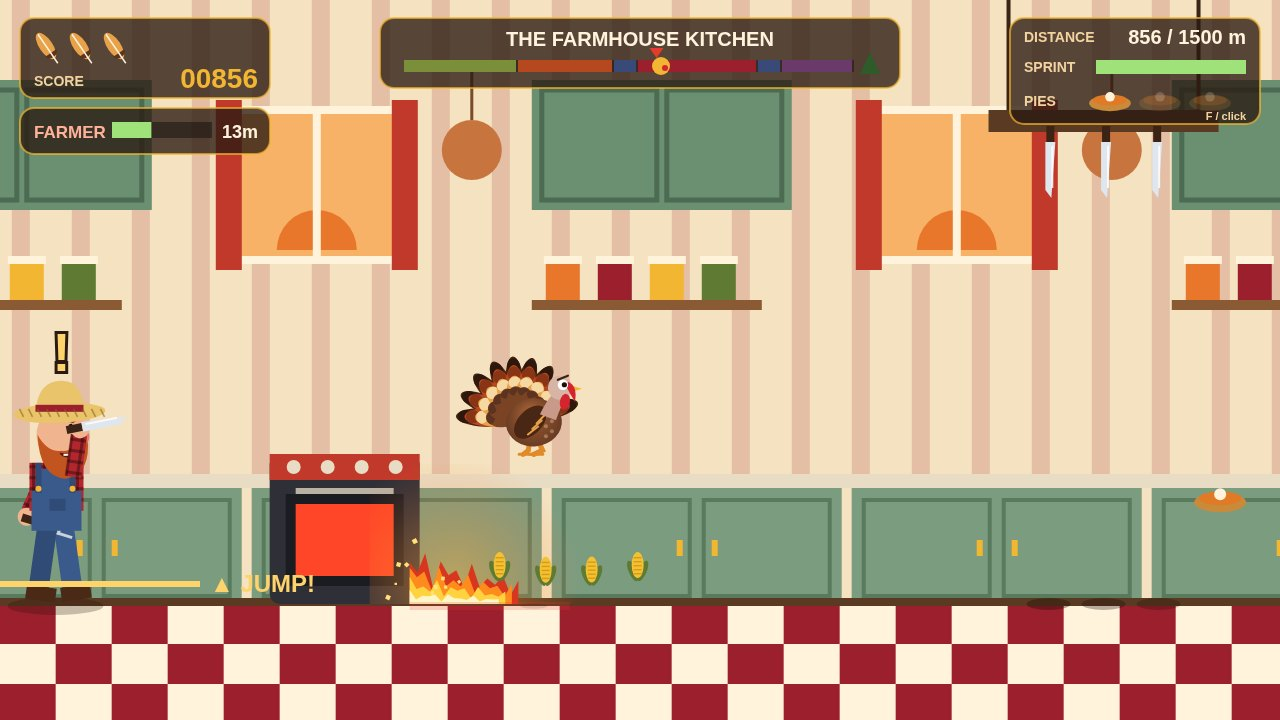
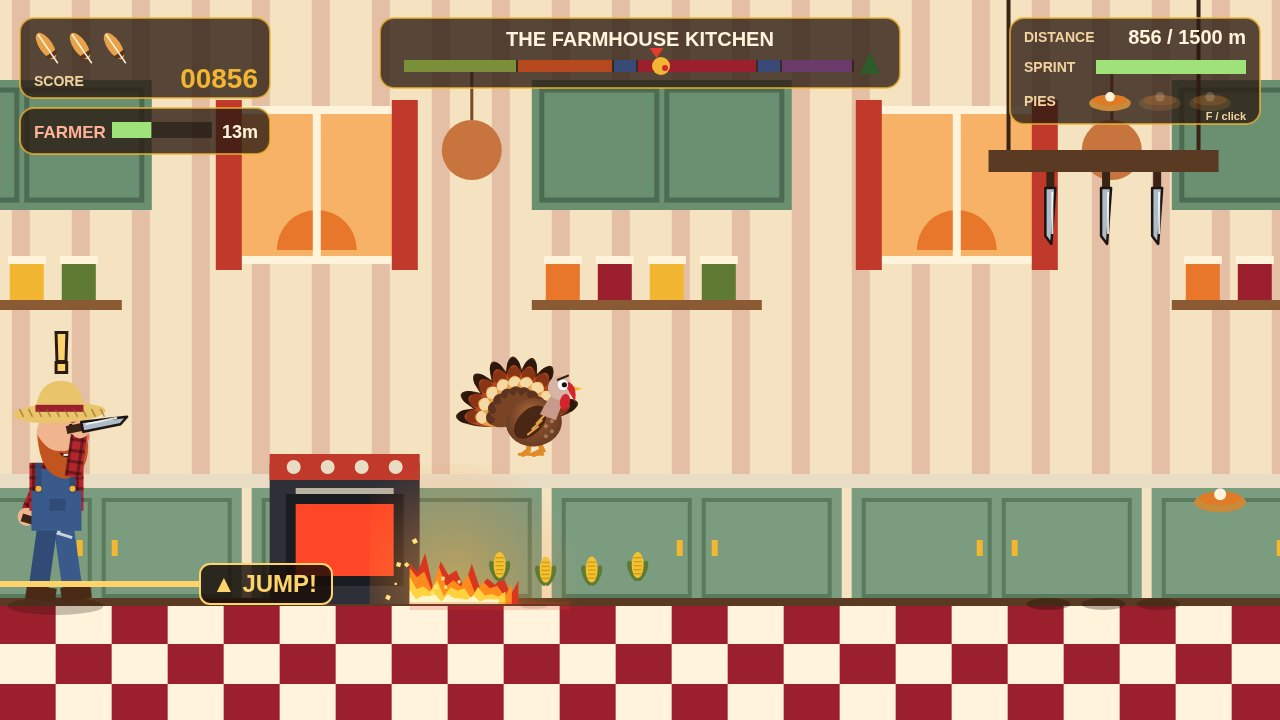
Judge-view fixes: clear knife rack, outlined blades, backed JUMP cue; screenshot tooling out of game/
- knife racks hang lower (bar at y 150), clear of the HUD panels; hanging and falling knives are
  drawn from the same y, so a dropped knife no longer jumps
- knife blades are steel grey with a dark outline, readable on pale wallpaper
- the JUMP/DUCK cue sits on a dark tag
- shots.js and autopilot.js move to tools/ with a shot.html page that draws each scene with the
  game's own rendering code and take-screenshots.mjs to retake them; main.js no longer imports
  them and has no window.__gobble or __shotReady hooks
- screenshots retaken: the tools/ page reproduces the in-game frames pixel for pixel

Changed region(s): [[0.75, 0.1528, 0.9688, 0.3361], [0.1562, 0.7639, 0.2812, 0.8556], [0.0625, 0.5806, 0.0938, 0.6111]]

diff --git a/game/src/main.js b/game/src/main.js
@@ -9,7 +9,6 @@ import { drawRun } from './render.js';
 import { drawTitle, drawPause, drawEnd, hitButton, TITLE_BUTTONS, PAUSE_BUTTONS, END_BUTTONS } from './screens.js';
 import { unlockAudio, playSfx, setMusic, toggleMute, setAudioPaused } from './audio.js';
 import { loadBest, saveBest, recordRun } from './save.js';
-import { readShot, buildShotRun } from './shots.js';
 
 const canvas = document.getElementById('game');
 const ctx = canvas.getContext('2d');
@@ -28,9 +27,7 @@ const game = {
   result: null,
   time: 0,
   seed: (Date.now() % 100000) | 0,
-  frozen: false,
 };
-window.__gobble = game;
 
 // Browsers only let sound start inside a user gesture, so unlock on the very first key or click.
 window.addEventListener('pointerdown', unlockAudio, true);
@@ -43,7 +40,7 @@ function setScreen(screen) {
 
 // Switching tabs or windows mid-run pauses it: Pepper is never caught while you look away.
 function autoPause() {
-  if (game.screen === 'play' && !game.frozen) { setScreen('paused'); announce('Paused.'); }
+  if (game.screen === 'play') { setScreen('paused'); announce('Paused.'); }
 }
 window.addEventListener('blur', autoPause);
 document.addEventListener('visibilitychange', () => { if (document.hidden) autoPause(); });
@@ -149,26 +146,10 @@ let last = performance.now();
 function frame(now) {
   const dt = Math.min(0.05, (now - last) / 1000);
   last = now;
-  if (!game.frozen) update(dt);
+  update(dt);
   input.endFrame();
   draw();
   requestAnimationFrame(frame);
 }
 
-// Screenshot scenes: ?shot=title|farm|barn|kitchen|caught|escaped plays the real game to a moment and holds it.
-const shot = readShot();
-if (shot) {
-  game.frozen = true;
-  game.time = 1.25;
-  if (shot.name !== 'title') {
-    game.run = buildShotRun(shot);
-    game.time = game.run.time;
-    if (game.run.state === 'over') {
-      game.result = runResult(game.run);
-      game.endInfo = recordRun({ score: 0, meters: 0, escapes: 0 }, game.result);
-      game.screen = 'end';
-    } else game.screen = 'play';
-  }
-  window.__shotReady = true;
-}
 requestAnimationFrame(frame);

diff --git a/game/src/art/props.js b/game/src/art/props.js
@@ -3,7 +3,7 @@
 // racks, mud and gravy, corn, pies, lucky feathers, hiding spots, doors and the woods gate.
 
 import { GROUND_Y } from '../config.js';
-import { ovenPhase } from '../hazards.js';
+import { ovenPhase, RACK_Y } from '../hazards.js';
 import { drawKnife } from './farmerArt.js';
 
 const G = GROUND_Y;
@@ -188,10 +188,11 @@ function oven(ctx, x, h, time) {
 }
 
 function knifeRack(ctx, x, h) {
+  // the rack hangs on two chains below the HUD; its knives hang from it point-down
   ctx.fillStyle = '#5a3a22';
-  ctx.fillRect(x, 110, h.w, 22);
+  ctx.fillRect(x, RACK_Y, h.w, 22);
   ctx.strokeStyle = '#3b2416'; ctx.lineWidth = 4;
-  ctx.beginPath(); ctx.moveTo(x + 20, 0); ctx.lineTo(x + 20, 110); ctx.moveTo(x + h.w - 20, 0); ctx.lineTo(x + h.w - 20, 110); ctx.stroke();
+  ctx.beginPath(); ctx.moveTo(x + 20, 0); ctx.lineTo(x + 20, RACK_Y); ctx.moveTo(x + h.w - 20, 0); ctx.lineTo(x + h.w - 20, RACK_Y); ctx.stroke();
   for (const k of h.knives) {
     const kx = x + k.dx;
     if (k.state === 'shake' && k.t > 0) {
@@ -200,7 +201,7 @@ function knifeRack(ctx, x, h) {
       ctx.beginPath(); ctx.ellipse(kx, G, 22, 6, 0, 0, Math.PI * 2); ctx.fill();
     }
     const jiggle = k.state === 'shake' && k.t > 0 ? Math.sin(k.t * 60) * 3 : 0;
-    const y = k.state === 'hang' || k.state === 'shake' ? 140 : k.y - 70;
+    const y = k.y - 70;
     ctx.save();
     ctx.translate(kx + jiggle, k.state === 'stuck' ? G - 44 : y);
     ctx.rotate(Math.PI / 2);

diff --git a/tools/shot-page.js b/tools/shot-page.js
@@ -1,0 +1,32 @@
+// Renders one screenshot scene (tools/shots.js) with the game's own drawing code and holds it,
+// then sets window.__shotReady for tools/take-screenshots.mjs. Not part of the shipped game.
+
+import { VIEW } from '../game/src/config.js';
+import { runResult } from '../game/src/run.js';
+import { drawRun } from '../game/src/render.js';
+import { drawTitle, drawEnd } from '../game/src/screens.js';
+import { recordRun } from '../game/src/save.js';
+import { readShot, buildShotRun } from './shots.js';
+
+const canvas = document.getElementById('game');
+const ctx = canvas.getContext('2d');
+canvas.width = VIEW.w;
+canvas.height = VIEW.h;
+const mouse = { x: 0, y: 0, clicked: false, down: false };
+const shot = readShot() ?? { name: 'title', seed: 1 };
+
+let draw;
+if (shot.name === 'title') {
+  draw = () => drawTitle(ctx, 1.25, mouse, { score: 0, meters: 0, escapes: 0 });
+} else {
+  const run = buildShotRun(shot);
+  if (run.state === 'over') {
+    const result = runResult(run);
+    const endInfo = recordRun({ score: 0, meters: 0, escapes: 0 }, result);
+    draw = () => { drawRun(ctx, run, run.time); drawEnd(ctx, run.time, mouse, result, endInfo); };
+  } else {
+    draw = () => drawRun(ctx, run, run.time);
+  }
+}
+draw();
+window.__shotReady = true;

diff --git a/game/src/hud.js b/game/src/hud.js
@@ -98,11 +98,16 @@ export function drawHud(ctx, run, time) {
   if (run.farmer.mode === 'windup') {
     const y = run.farmer.lane === 'high' ? GROUND_Y - 62 : GROUND_Y - 20;
     const blink = Math.sin(time * 26) > 0;
+    // a dark tag behind the words keeps the cue readable over ovens, crates and wallpaper
+    ctx.fillStyle = 'rgba(26,14,8,0.82)';
+    ctx.beginPath(); ctx.roundRect(200, y - 20, 132, 40, 10); ctx.fill();
+    ctx.strokeStyle = '#ffd36b'; ctx.lineWidth = 2;
+    ctx.stroke();
     if (blink) {
       ctx.fillStyle = '#ffd36b';
       ctx.fillRect(0, y - 3, 200, 6);
-      text(ctx, run.farmer.lane === 'high' ? '▼ DUCK!' : '▲ JUMP!', 210, y + 8, 24, '#ffd36b', 'left', 900);
     }
+    text(ctx, run.farmer.lane === 'high' ? '▼ DUCK!' : '▲ JUMP!', 212, y + 8, 24, blink ? '#ffd36b' : '#fff3dc', 'left', 900);
   }
   if (danger > 0.55) {
     const g = ctx.createRadialGradient(VIEW.w / 2, VIEW.h / 2, VIEW.h * 0.4, VIEW.w / 2, VIEW.h / 2, VIEW.w * 0.7);

diff --git a/game/src/art/farmerArt.js b/game/src/art/farmerArt.js
@@ -14,7 +14,11 @@ function plaid(ctx, x, y, w, h) {
 function drawKnife(ctx, len = 46) {
   ctx.fillStyle = '#3b2416';
   ctx.fillRect(-14, -4, 16, 8);
-  ctx.fillStyle = '#dfe6ee';
+  // steel-grey blade with a dark outline, so it reads against pale wallpaper and dark barns alike
+  ctx.fillStyle = '#aebbc8';
+  ctx.strokeStyle = '#1e1410';
+  ctx.lineWidth = 2.5;
+  ctx.lineJoin = 'round';
   ctx.beginPath();
   ctx.moveTo(2, -5);
   ctx.lineTo(2 + len, -1);
@@ -22,7 +26,8 @@ function drawKnife(ctx, len = 46) {
   ctx.lineTo(2, 5);
   ctx.closePath();
   ctx.fill();
-  ctx.fillStyle = 'rgba(255,255,255,0.8)';
+  ctx.stroke();
+  ctx.fillStyle = 'rgba(255,255,255,0.85)';
   ctx.fillRect(6, -3, len - 14, 2);
 }
 

diff --git a/game/src/hazards.js b/game/src/hazards.js
@@ -4,6 +4,7 @@
 
 import { GROUND_Y, FARMER } from './config.js';
 
+export const RACK_Y = 150;    // top of a knife rack's bar, clear of the HUD panels
 export const ROLL_RANGE = 760; // rolling hazards start rolling when Pepper is this close
 
 const SPECS = {
@@ -38,7 +39,7 @@ export function makeHazard(type, x, rng) {
     h.flameLen = 160;
   }
   if (type === 'knifeRack') {
-    h.knives = [0, 1, 2].map((i) => ({ dx: 60 + i * 55, state: 'hang', t: 0, y: 140 }));
+    h.knives = [0, 1, 2].map((i) => ({ dx: 60 + i * 55, state: 'hang', t: 0, y: RACK_Y + 22 + 84 }));
     h.armed = false;
   }
   return h;

diff --git a/tools/shots.js b/tools/shots.js
@@ -2,10 +2,10 @@
 // autopilot drives Pepper with a fixed time step) until a moment worth showing, then freezes
 // there. Nothing is painted on top: what you see is the game's own frame.
 
-import { createRun, updateRun } from './run.js';
+import { createRun, updateRun } from '../game/src/run.js';
 import { autopilotControls } from './autopilot.js';
-import { hazardHitboxes } from './hazards.js';
-import { GROUND_Y } from './config.js';
+import { hazardHitboxes } from '../game/src/hazards.js';
+import { GROUND_Y } from '../game/src/config.js';
 
 const DT = 1 / 120;
 

diff --git a/tools/autopilot.js b/tools/autopilot.js
@@ -2,9 +2,9 @@
 // knives, waits out oven blasts, and hides when the lantern beam swings close. The screenshot
 // scenes use it to play real runs of the game, and it doubles as a smoke test of the course.
 
-import { GROUND_Y } from './config.js';
-import { runMode } from './run.js';
-import { beamGeometry } from './farmer.js';
+import { GROUND_Y } from '../game/src/config.js';
+import { runMode } from '../game/src/run.js';
+import { beamGeometry } from '../game/src/farmer.js';
 
 export function autopilotControls(run) {
   const t = run.turkey;

diff --git a/tools/shot.html b/tools/shot.html
@@ -1,0 +1,16 @@
+<!doctype html>
+<html lang="en">
+<head>
+<meta charset="utf-8">
+<title>Gobble Getaway: screenshot scene</title>
+<link rel="icon" href="data:,">
+<style>
+  html, body { margin: 0; height: 100%; overflow: hidden; background: #1a100b; }
+  canvas { position: fixed; inset: 0; width: 100%; height: 100%; object-fit: contain; display: block; }
+</style>
+</head>
+<body>
+<canvas id="game"></canvas>
+<script type="module" src="./shot-page.js"></script>
+</body>
+</html>

diff --git a/README.md b/README.md
@@ -54,8 +54,12 @@ sound is synthesised with Web Audio in the game's own code.
 `game/src/`: `main.js` (screens and loop), `run.js` (one escape attempt), `turkey.js`, `farmer.js`,
 `hazards.js`, `level.js` (course spawner), `stages.js`, `config.js` (all tuning), `render.js`, `hud.js`,
 `screens.js`, `effects.js`, `audio.js`, `input.js`, `save.js`, `rng.js`, `art/` (turkey, farmer,
-scenery, props), plus `autopilot.js` and `shots.js`, which play real seeded runs to the moments in
-the screenshots (`?shot=title|leap|kitchen|barn|caught|escaped&seed=N`).
+scenery, props).
+
+`tools/` (not shipped with the game): `autopilot.js` and `shots.js` play real seeded runs to the
+moments in the screenshots, `shot.html` draws a scene with the game's own rendering code, and
+`node tools/take-screenshots.mjs` retakes every shot listed in `shots.json` (needs playwright-core
+and Chrome).
 
 `main.ts` hands the entry in: it copies `game/` and `screenshots/` to `/output` and writes
 `dossier.json` with the kit's unchanged `vendor/makefun-game.ts`.
